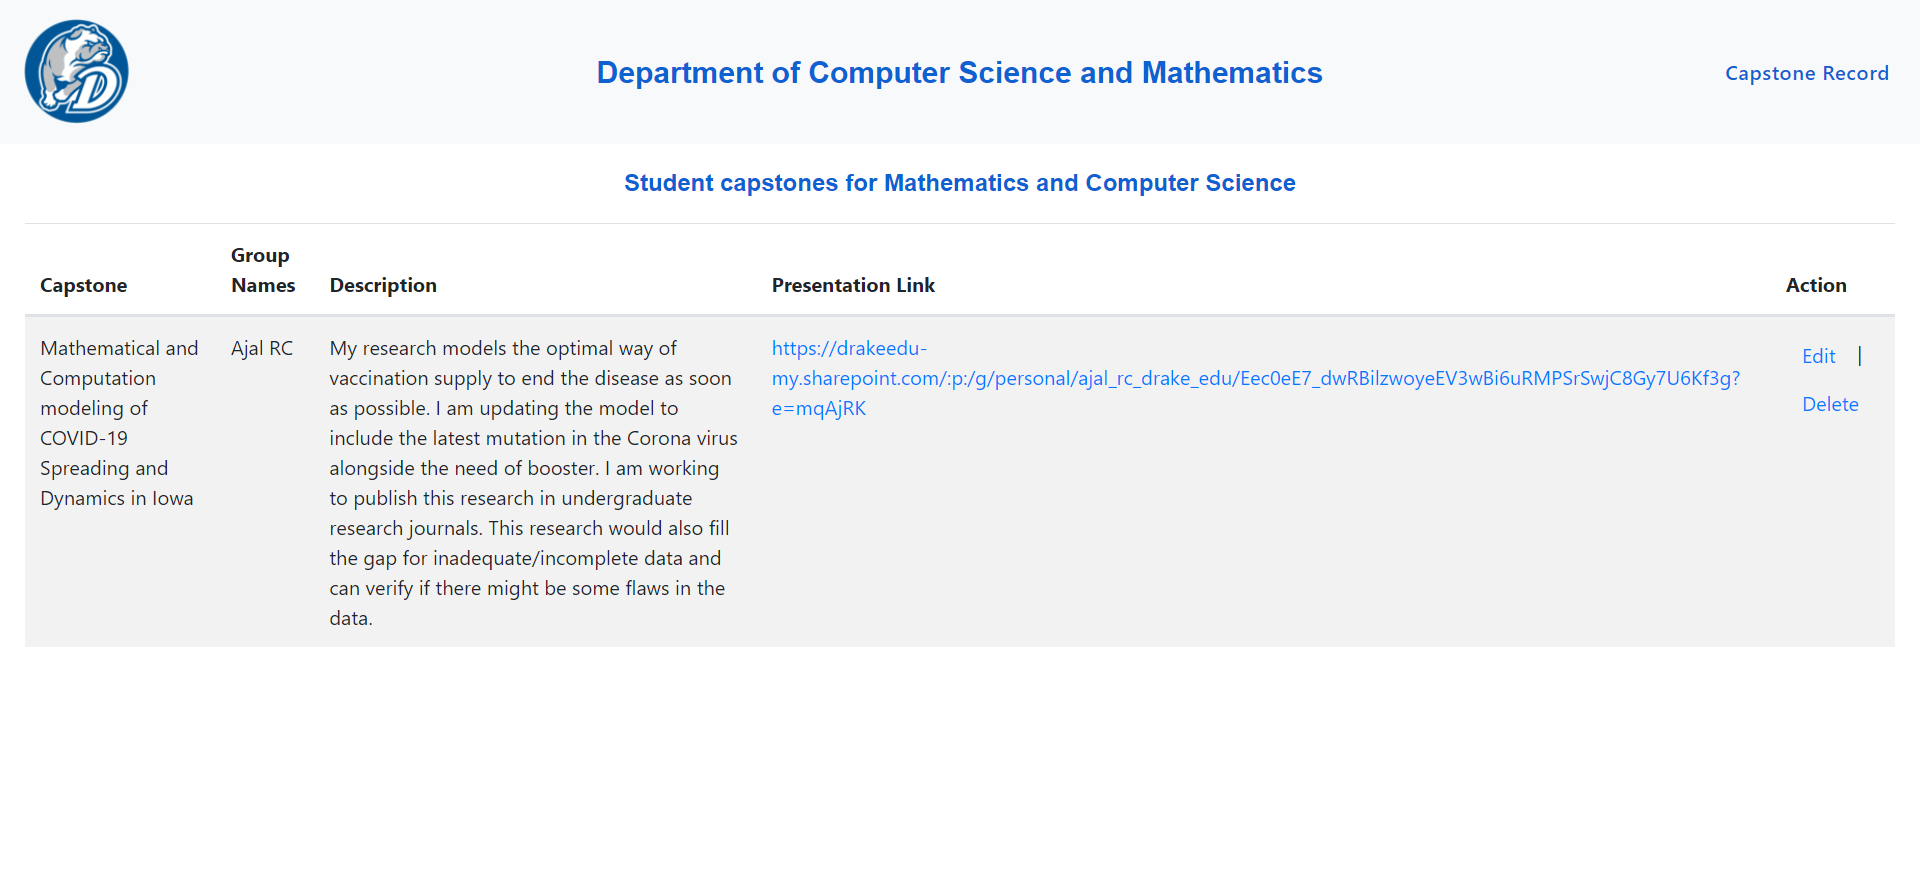
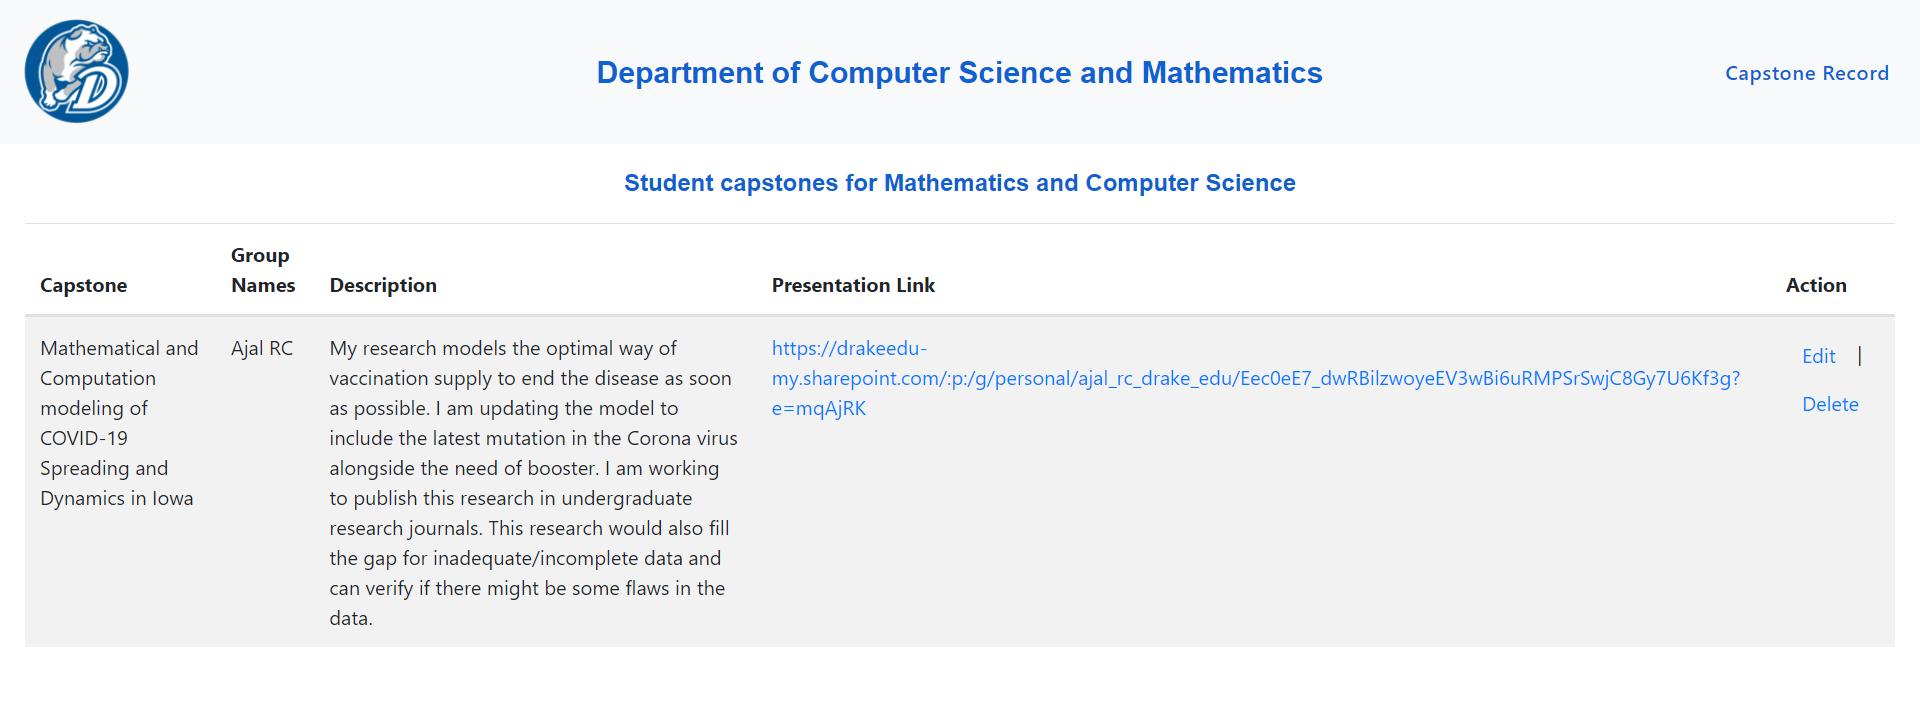
made changes in about

diff --git a/src/components/About.js b/src/components/About.js
@@ -7,12 +7,12 @@ export default function About () {
         <div className="row" id="about">
             <h2 className="about_header">About me</h2>
             <Picture className="column1" src={Ab_pic}/> 
-            <div className="column2">Hello, 
+            <div className="column2">
             Hello, My name is Ajal RC. I am a graduating senior at Drake University with Computer 
-            Science and Mathematics as majors with a minor in Physics. I am a self-taught
+            Science and Mathematics as majors and a minor in Physics. I am a self-taught
             developer who is constantly exploring and teaching myself the ever-growing fields of 
             Computer Science. I have completed projects in languages like Python, Java, Javascript, 
-            HTML and CSS, and their popular frameworks. Similarly, I have used platforms like Docker, Azure DevOps,
+            and their popular frameworks like Node.js, React, Express and Django. Similarly, I have used platforms like Docker, Azure DevOps,
             Heroku, MongoDB, Datadog, and AWS in my projects and internships. My way of learning is 
             "Learning by doing". If I need to learn a new technology or language, I work on a project 
             that uses it. It is a harder way of learning, but that's what makes it more fun and
